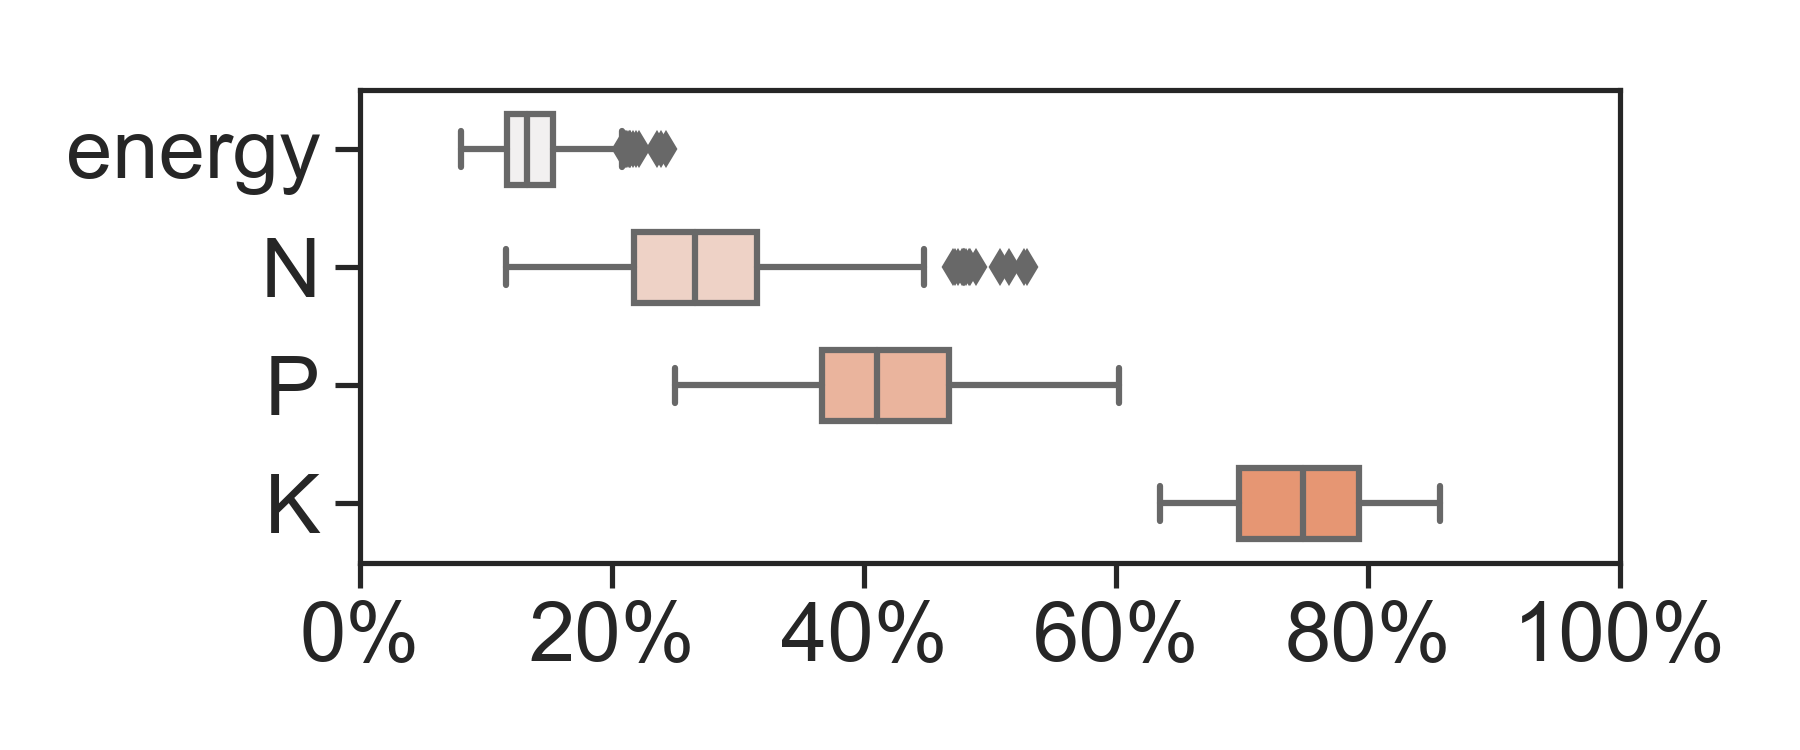
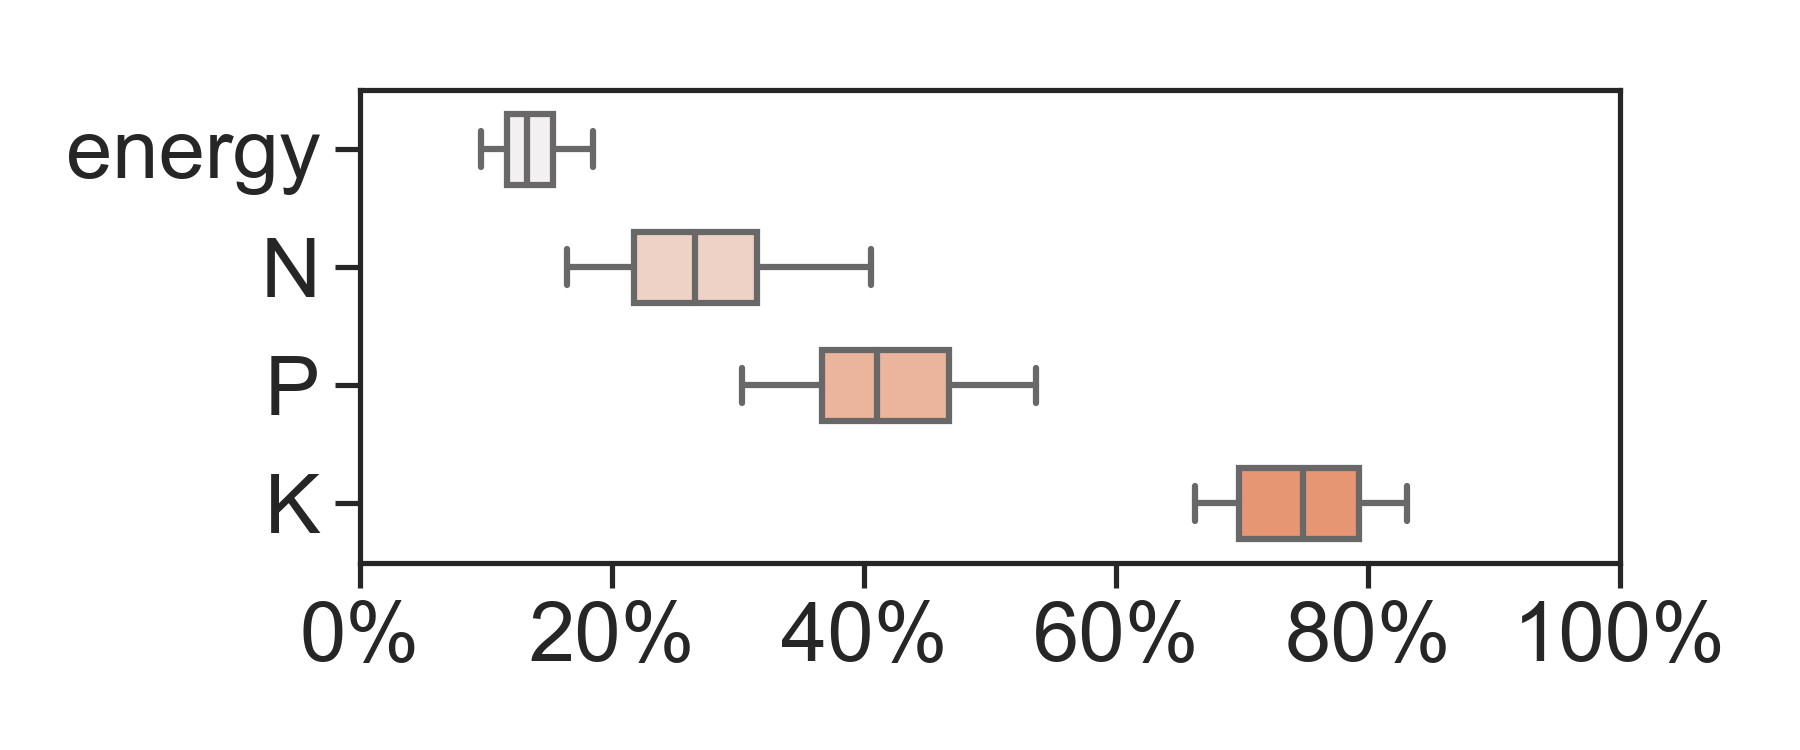
minor updates to figures

diff --git a/exposan/bwaise/analyses.py b/exposan/bwaise/analyses.py
@@ -74,10 +74,12 @@ def save_reports(system):
 
 
 # Plot recoveries as 1D-density plots
-def plot_box(model, ID, color, metrics, ax_dct, kind='horizontal'):
+def plot_box(model, ID, color, metrics, ax_dct, kind='horizontal',
+             whis=(5, 95), sym=''):
     if kind == 'horizontal':
         fig, ax = s.plot_uncertainties(model, y_axis=metrics, kind='box',
-                                       center_kws={'color': color, 'width': 0.6})
+                                       center_kws={'color': color, 'width': 0.6,
+                                                   'whis': whis, 'sym': sym})
         ax.get_legend().remove()
         fig.set_figheight(2.5)
         ax.set(xlabel='', xlim=(0, 1), xticks=np.linspace(0, 1, 6))
@@ -85,7 +87,8 @@ def plot_box(model, ID, color, metrics, ax_dct, kind='horizontal'):
         ax.set_xticklabels([f'{i:.0%}' for i in np.linspace(0, 1, 6)], fontsize=20)
     else:
         fig, ax = s.plot_uncertainties(model, x_axis=metrics, kind='box',
-                                       center_kws={'color': color, 'width': 0.6})
+                                       center_kws={'color': color, 'width': 0.6,
+                                                   'whis': whis, 'sym': sym})
         ax.get_legend().remove()
         fig.set_figwidth(2.5)
         ax.set_xticklabels([i.name.lstrip('Total ') for i in metrics], fontsize=20)
